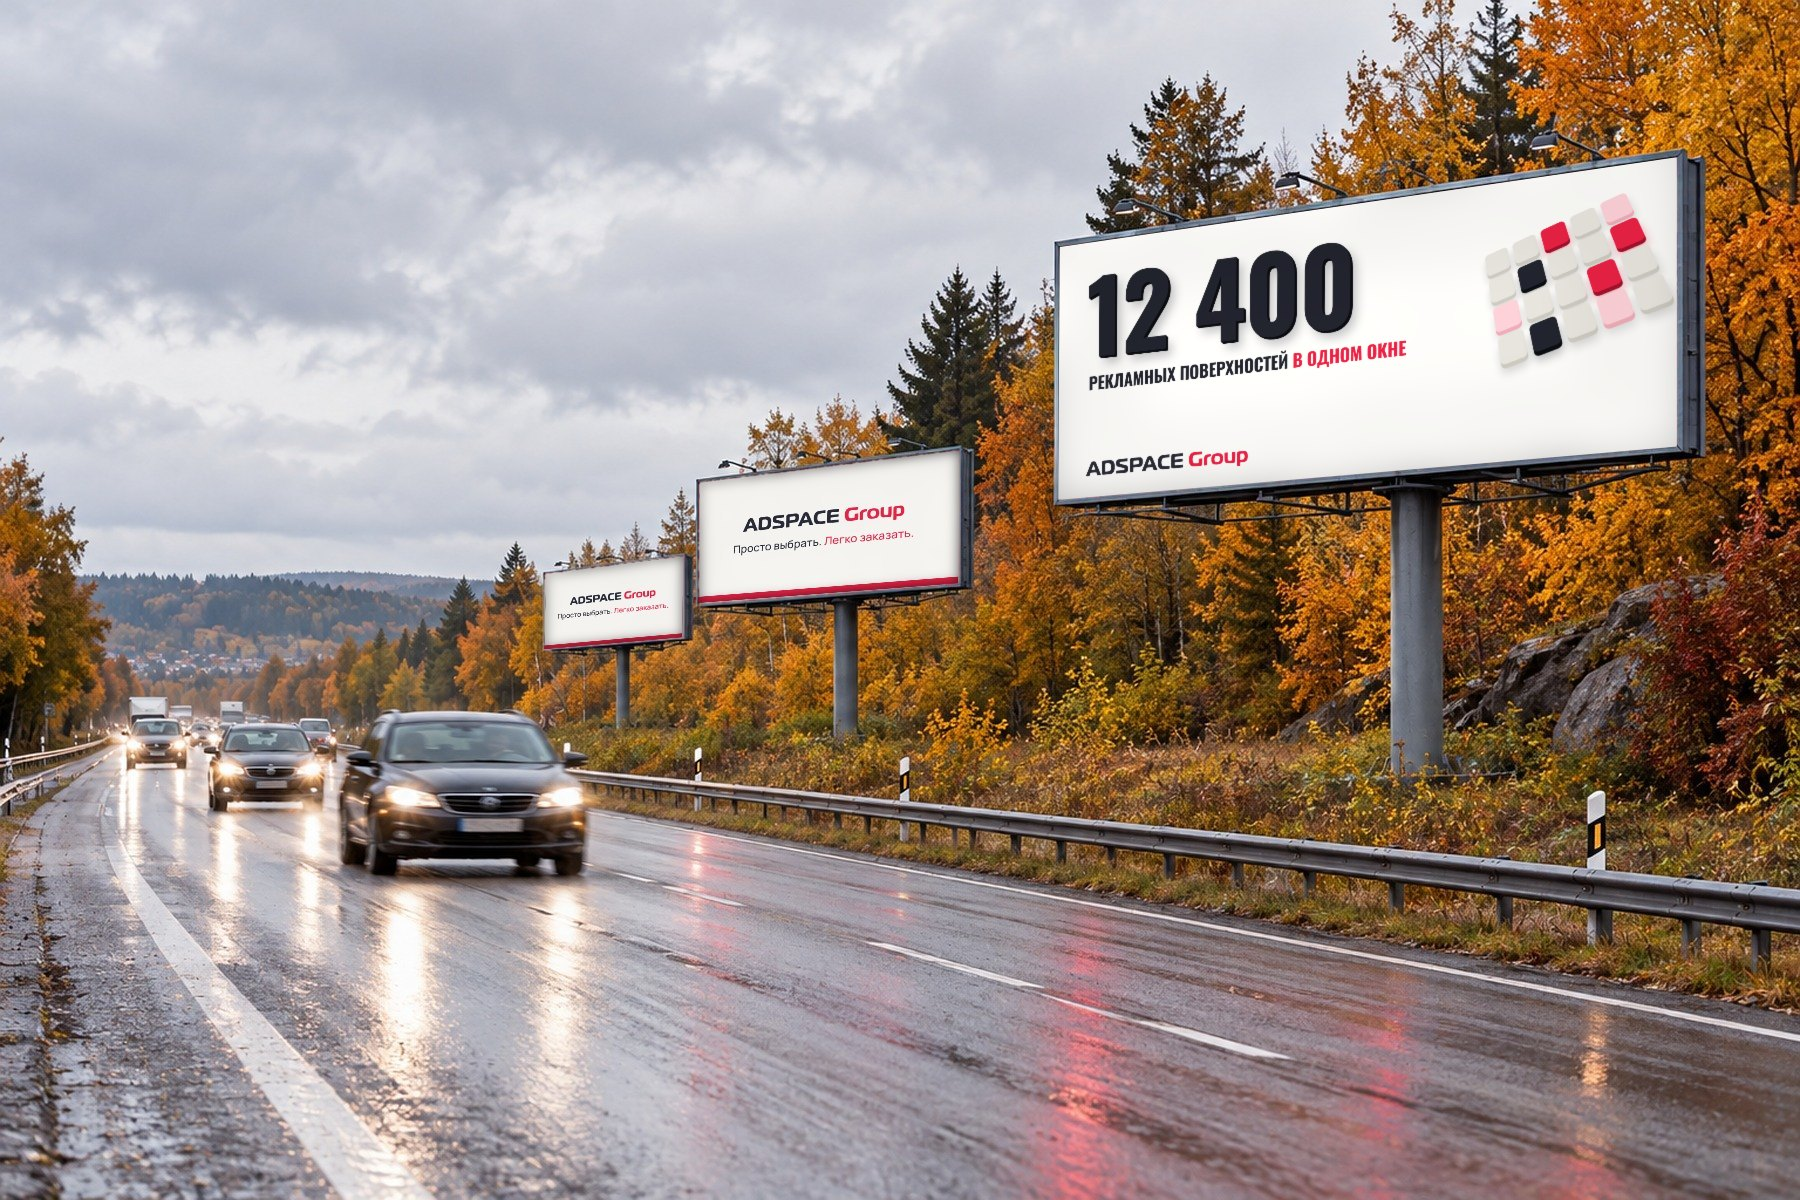
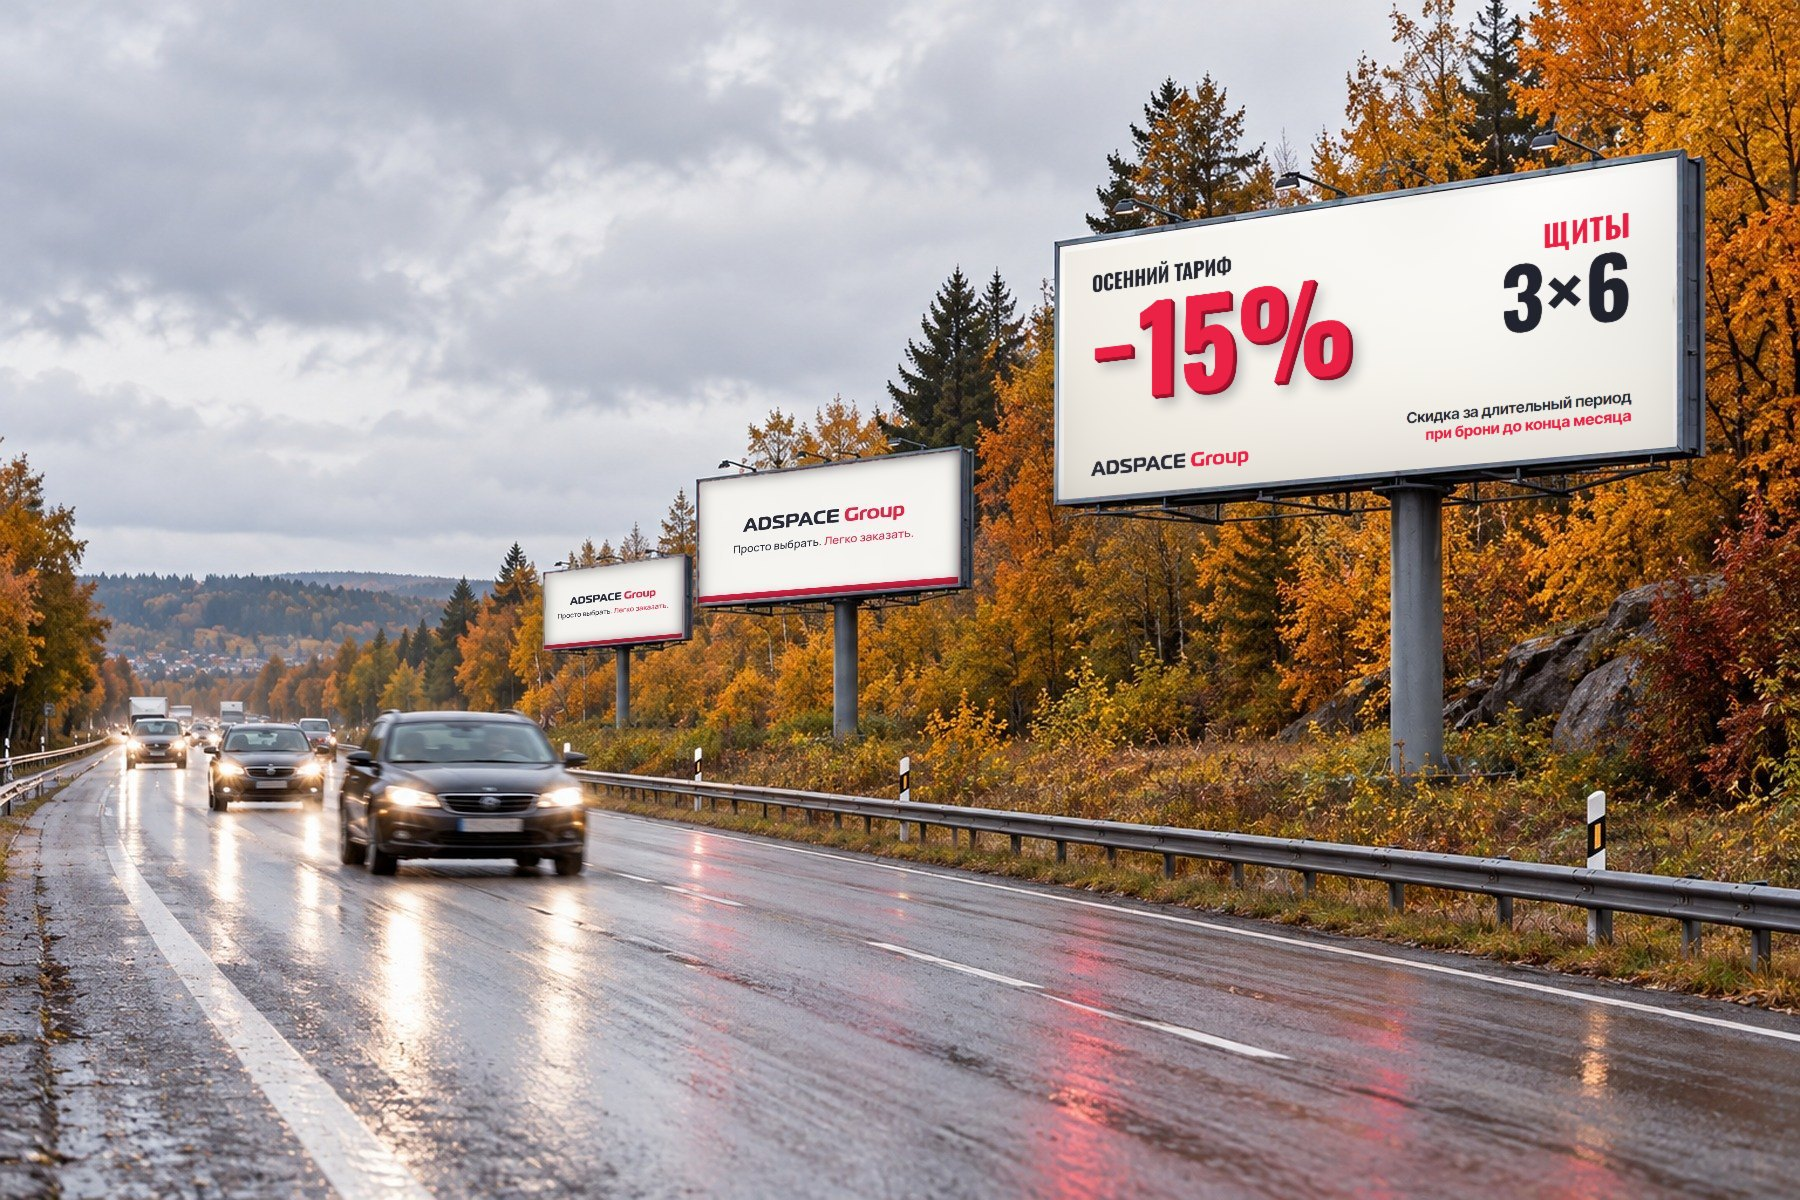
design: скругления в брони, «Решениях», шаге контакта и окне акции; ровный флажок; креатив «−15%» на щите (правки 06.11)

Changed region(s): [[0.5911, 0.185, 0.7778, 0.3392], [0.7778, 0.1542, 0.9333, 0.37], [0.5911, 0.37, 0.7156, 0.4008]]

diff --git a/design/review2.css b/design/review2.css
@@ -921,3 +921,68 @@ html:not([data-hero="dark"]) .hero .stage-dots button[aria-selected="true"] {
 html:not([data-hero="dark"]) .hero :is(.stage-screen, .scene--outdoor, .scene--indoor, .scene--broadcast) {
   background: var(--rv-mid-2);
 }
+
+/* ── 33 · скругления, которых не хватало (правка 06.11) ──────
+   Тот же принцип, что в «22»: крупная панель — --rv-r,
+   всё вложенное — --rv-r-sm. В остром варианте переменные = 0. */
+
+/* корзина в «Брони» на первом экране */
+html:not([data-corners="sharp"]) .dz-book-cart {
+  border-radius: var(--rv-r-sm);
+}
+html:not([data-corners="sharp"]) .dz-book-cart b {
+  border-radius: calc(var(--rv-r-sm) - 4px);
+}
+
+/* «Рассчитать этот формат» в «Решениях» — кнопка, как остальные */
+html:not([data-corners="sharp"]) .solutions .preview-meta .text-link {
+  border-radius: var(--rv-r-sm);
+}
+
+/* шаг контакта в конструкторе: панель, крестик, плашки параметров, поля */
+html:not([data-corners="sharp"]) .builder-gate {
+  border-radius: var(--rv-r);
+}
+html:not([data-corners="sharp"]) :is(
+    .gate-close,
+    .result-head button,
+    .gate-summary li,
+    .builder-gate input:not([type="checkbox"])
+  ) {
+  border-radius: var(--rv-r-sm) !important;
+}
+
+/* окно акции: тёмная колонка (фото + карта) — одна скруглённая
+   карточка; фото внутри неё без своих углов, шов с картой прямой */
+html:not([data-corners="sharp"]) .promo-modal-media {
+  border-radius: var(--rv-r);
+  overflow: hidden;
+}
+html:not([data-corners="sharp"]) .promo-modal-media .promo-modal-photo {
+  border-radius: 0;
+}
+
+/* флажок согласия: квадрат по центру первой строки, галочка по центру квадрата */
+.dz-consent {
+  align-items: flex-start;
+}
+.dz-consent-box {
+  margin-top: calc((1.45em - 18px) / 2);
+}
+.dz-consent input[type="checkbox"] {
+  top: calc((1.45em - 18px) / 2);
+  left: 0;
+}
+.dz-consent-box::after {
+  left: 50%;
+  top: 45%;
+  width: 5px;
+  height: 9px;
+  transform: translate(-50%, -50%) rotate(45deg) scale(0.4);
+}
+.dz-consent input:checked + .dz-consent-box::after {
+  transform: translate(-50%, -50%) rotate(45deg) scale(1);
+}
+html:not([data-corners="sharp"]) .dz-consent-box {
+  border-radius: 4px;
+}

diff --git a/design/tools/creatives/creative.html b/design/tools/creatives/creative.html
@@ -106,6 +106,17 @@
     .logo { height:auto; width:46cqw; bottom:6cqh; }
   }
 
+
+  /* ── 6 · «−15% осенью на щиты 3×6» — для акции «Осенний тариф» (правка 06.11) ── */
+  .t6 { background: radial-gradient(110% 120% at 85% 0%, #fff 0%, var(--paper) 60%, #ebe7df 100%); }
+  .t6 .k { position:absolute; left:5cqw; top:10cqh; font-size:min(9cqh, 3.6cqw); color:var(--ink); }
+  .t6 .big { position:absolute; left:4.2cqw; top:20cqh; font-size:min(50cqh, 20cqw); }
+  .t6 .r { position:absolute; right:6cqw; top:14cqh; width:40cqw; text-align:right; }
+  .t6 .r .fmt { display:block; font-size:min(34cqh, 13cqw); color:var(--ink); }
+  .t6 .r .fmt small { display:block; font-size:.36em; letter-spacing:.02em; margin-bottom:2cqh; color:var(--red); }
+  .t6 .sub { position:absolute; right:6cqw; bottom:9cqh; width:40cqw; text-align:right; font-size:min(5.6cqh, 2.4cqw); font-weight:600; }
+  .t6 .sub b { color:var(--red); }
+
   /* очень широкие поверхности: размеры ограничены ещё и шириной */
   @container (aspect-ratio >= 1) {
     .t1 .big { font-size:min(36cqh, 13cqw); } .t1 svg.cur { height:min(56cqh, 20cqw); }
@@ -156,6 +167,9 @@
         ${pin("pa","g")}${pin("pb","r")}${pin("pc","g")}`,
     5: `<p class="h d">Просто выбрать.<br><b>Легко заказать.</b></p><span class="btn d">Заказать</span>
         <p class="sub">От одной поверхности до&nbsp;кампании <span class="nb">по всей России</span></p>`,
+    6: `<span class="k d">Осенний тариф</span><span class="big d x3d">−15%</span>
+        <div class="r"><span class="fmt d"><small>щиты</small>3×6</span></div>
+        <p class="sub">Скидка за длительный период<br><b class="nb">при брони до конца месяца</b></p>`,
   };
   c.className = "c t" + t;
   c.innerHTML = T[t] + logo;

diff --git a/design/index.html b/design/index.html
@@ -28,7 +28,7 @@
     <!-- Правки заказчика 13.10–15.10 и переключатели вариантов. -->
     <link rel="stylesheet" href="review.css?v=10" />
     <!-- Правки заказчика 16.10–21.10. -->
-    <link rel="stylesheet" href="review2.css?v=19" />
+    <link rel="stylesheet" href="review2.css?v=21" />
     <!-- Правка 29 (29.10): эффекты блока «Акции», ?promofx=drum|cutout|fly -->
     <link rel="stylesheet" href="promo-fx.css?v=7" />
     <!-- Прелоадер: показываем один раз за сессию, до первой отрисовки.
@@ -519,7 +519,7 @@
             <article class="pr-card pr-card--wide" data-tentative="акция демонстрационная">
               <div class="pr-media" aria-hidden="true">
                 <div class="dz-frame" style="--px: 0.8; --py: 0.3">
-                  <img src="assets/photos-light/promo-boards.jpg" alt="" loading="lazy" />
+                  <img src="assets/photos-light/promo-boards.jpg?v=2" alt="" loading="lazy" />
                   <span class="dz-board dz-board--boards"><b>Ваш бренд</b></span>
                 </div>
               </div>
